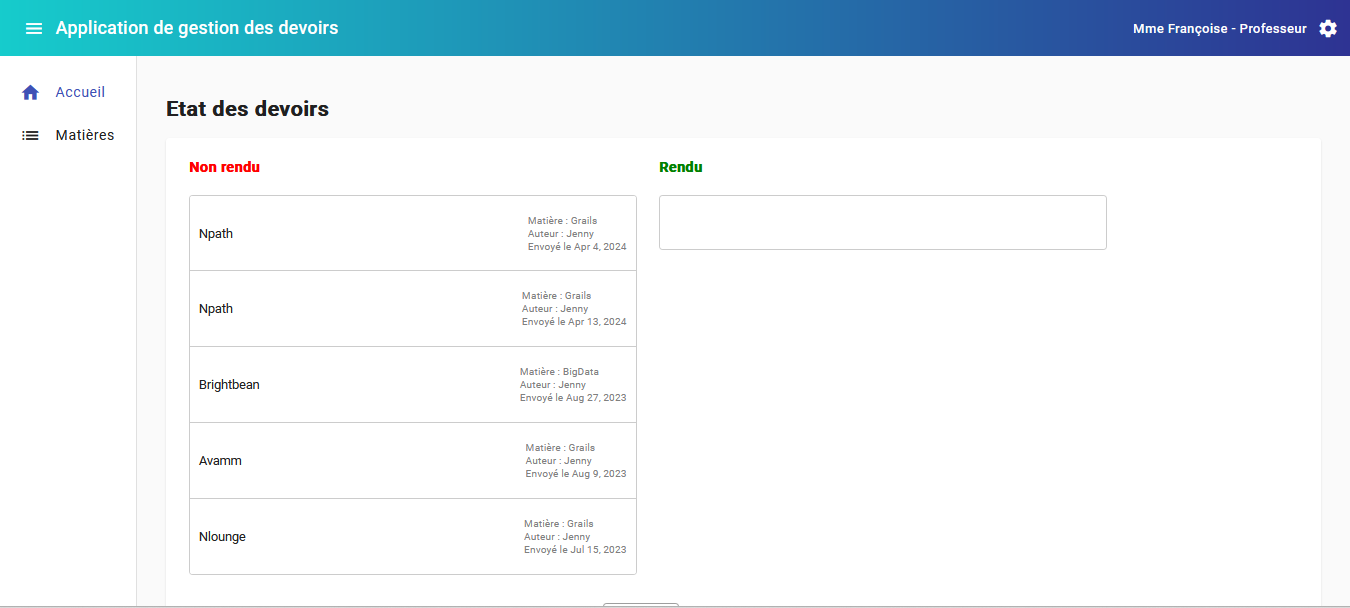
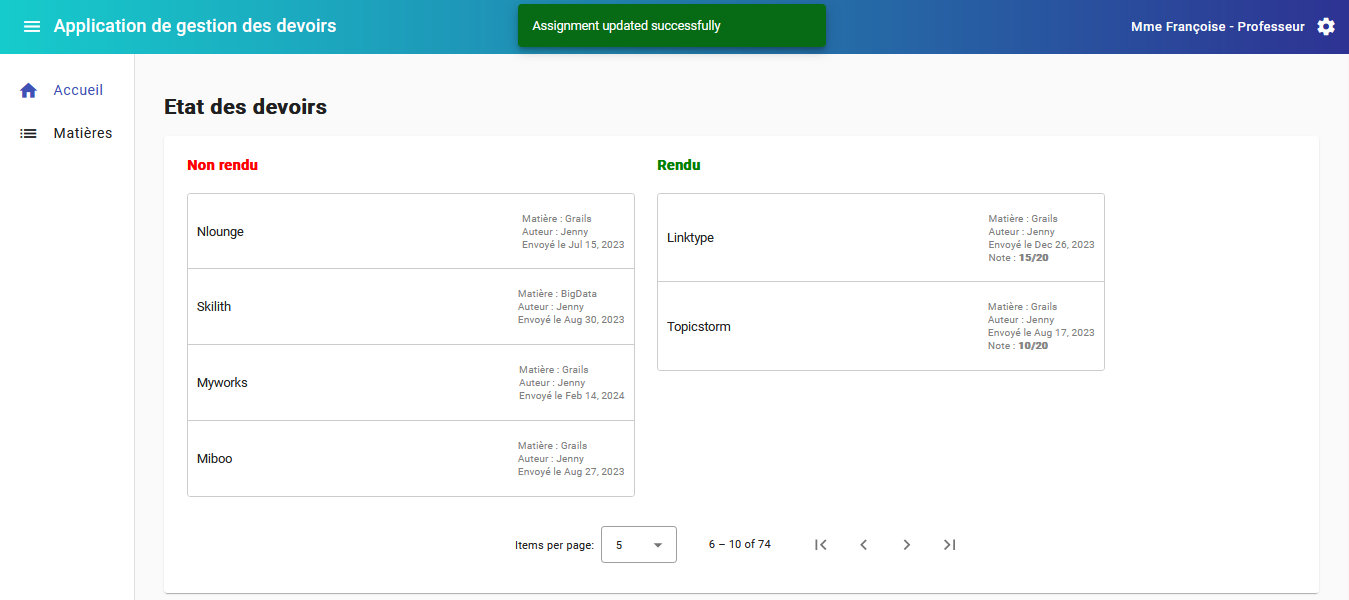
Update drag & drop and update readme image

diff --git a/src/app/assignments/drag-drop-assignments/drag-drop-assignments.component.ts b/src/app/assignments/drag-drop-assignments/drag-drop-assignments.component.ts
@@ -110,8 +110,10 @@ export class DragDropAssignmentsComponent {
               event.previousIndex,
               event.currentIndex,
             );
-            this.getAssignmentNonRendusFromService(false);
             event.container.data[event.currentIndex].note = note+"/20";
+          },
+          callbackFunction2: () => {
+            this.getAssignmentNonRendusFromService(false);
           },
         },
       });

diff --git a/src/app/assignments/drag-drop-assignments/dialog-return-assignment/dialog-return-assignment.component.ts b/src/app/assignments/drag-drop-assignments/dialog-return-assignment/dialog-return-assignment.component.ts
@@ -64,6 +64,7 @@ export class DialogReturnAssignmentComponent {
             'danger-snackbar',
           ]);
         }
+        this.data.callbackFunction2();
       });
   }
 }
